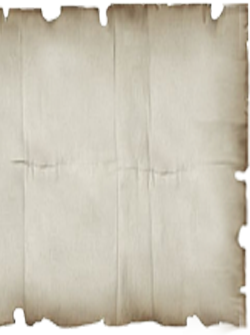
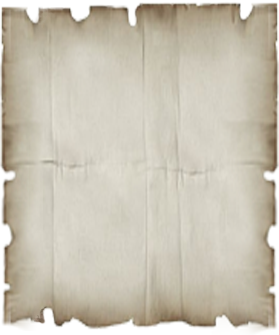
card img.

diff --git a/src/pages/public/Map/Map.css b/src/pages/public/Map/Map.css
@@ -185,7 +185,6 @@ body {
   display: flex;
   align-items: center;
   justify-content: center;
-  background-image: url(/public/assets/img/building-descriptions/tri-frame-inferior.png);
   background-size: 100% 100%;
   background-position: center;
   background-repeat: no-repeat;
@@ -211,6 +210,42 @@ body {
   z-index: 9 !important;
   position: relative;
   transform: translateZ(0);
+}
+
+.stage-1 .info-container {
+  background-image: url(/public/assets/img/building-descriptions/card-tri-1.png);
+}
+
+.stage-2 .info-container {
+  background-image: url(/public/assets/img/building-descriptions/card-tri-2.png);
+}
+
+.stage-3 .info-container {
+  background-image: url(/public/assets/img/building-descriptions/card-tri-3.png);
+}
+
+.stage-4 .info-container {
+  background-image: url(/public/assets/img/building-descriptions/card-jur-1.png);
+}
+
+.stage-5 .info-container {
+  background-image: url(/public/assets/img/building-descriptions/card-jur-2.png);
+}
+
+.stage-6 .info-container {
+  background-image: url(/public/assets/img/building-descriptions/card-jur-3.png);
+}
+
+.stage-7 .info-container {
+  background-image: url(/public/assets/img/building-descriptions/card-cre-1.png);
+}
+
+.stage-8 .info-container {
+  background-image: url(/public/assets/img/building-descriptions/card-cre-2.png);
+}
+
+.stage-9 .info-container {
+  background-image: url(/public/assets/img/building-descriptions/card-cre-3.png);
 }
 
 .site-description {
@@ -256,7 +291,7 @@ body {
   background-position: center;
   background-repeat: no-repeat;
   background-size: 100% 100%;
-  width: 6vw;
+  width: 9vw;
   height: 10vw;
   position: absolute;
   transform: translateY(-16%);
@@ -322,26 +357,26 @@ body {
 
 @keyframes movePaperRight {
   0% {
-    left: calc(90%);
+    left: calc(80%);
   }
   100% {
-    left: calc(160%);
+    left: calc(170%);
   }
 }
 
 @keyframes movePaperLeft {
   0% {
-    right: calc(90%);
+    right: calc(80%);
   }
   100% {
-    right: calc(160%);
+    right: calc(170%);
   }
 }
 
 .scaled .paper.right {
-  animation: movePaperRight 0.5s ease-in-out 0.6s forwards;
+  animation: movePaperRight 0.8s ease-in-out 0.6s forwards;
 }
 
 .scaled .paper.left {
-  animation: movePaperLeft 0.5s ease-in-out 0.6s forwards;
+  animation: movePaperLeft 0.8s ease-in-out 0.6s forwards;
 }
